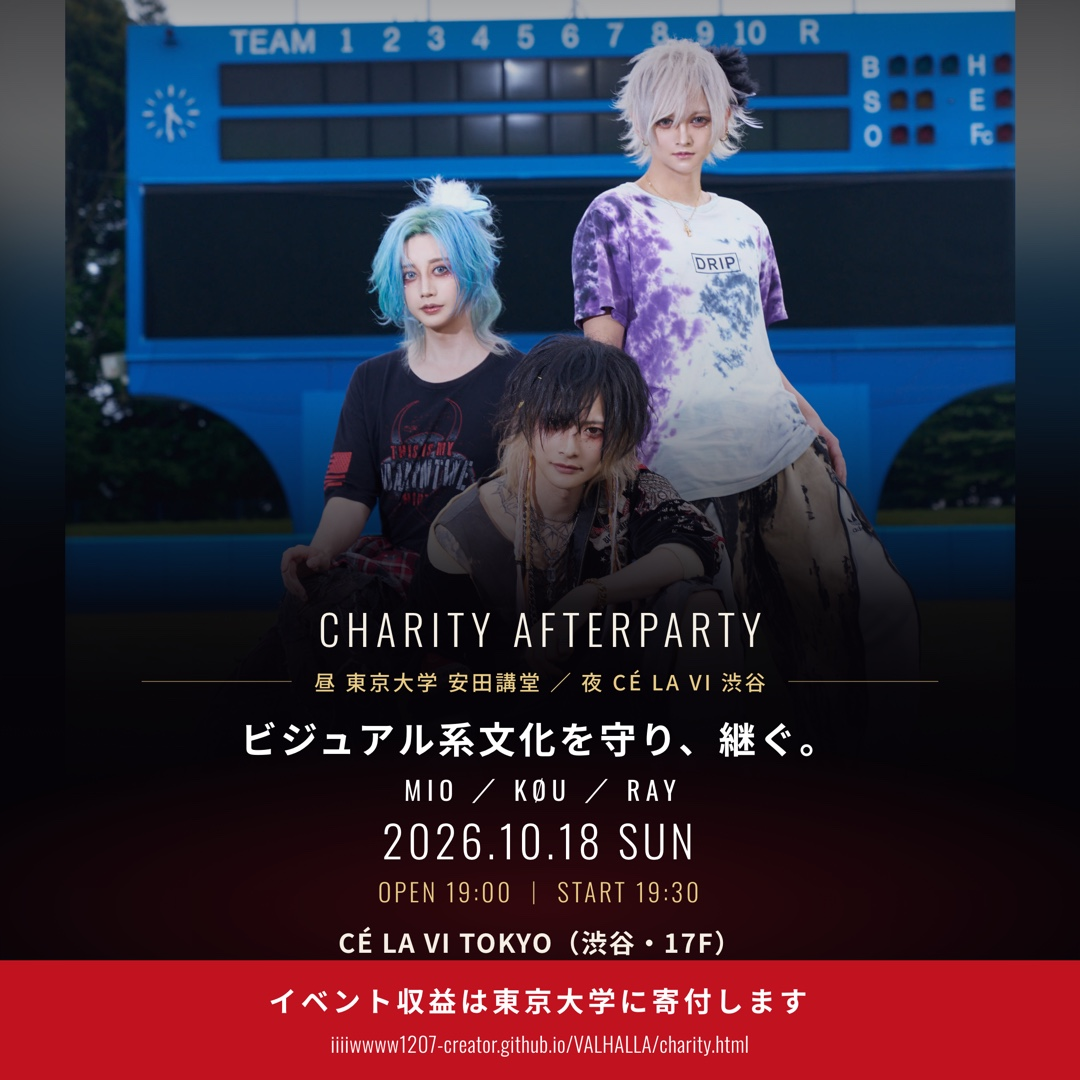
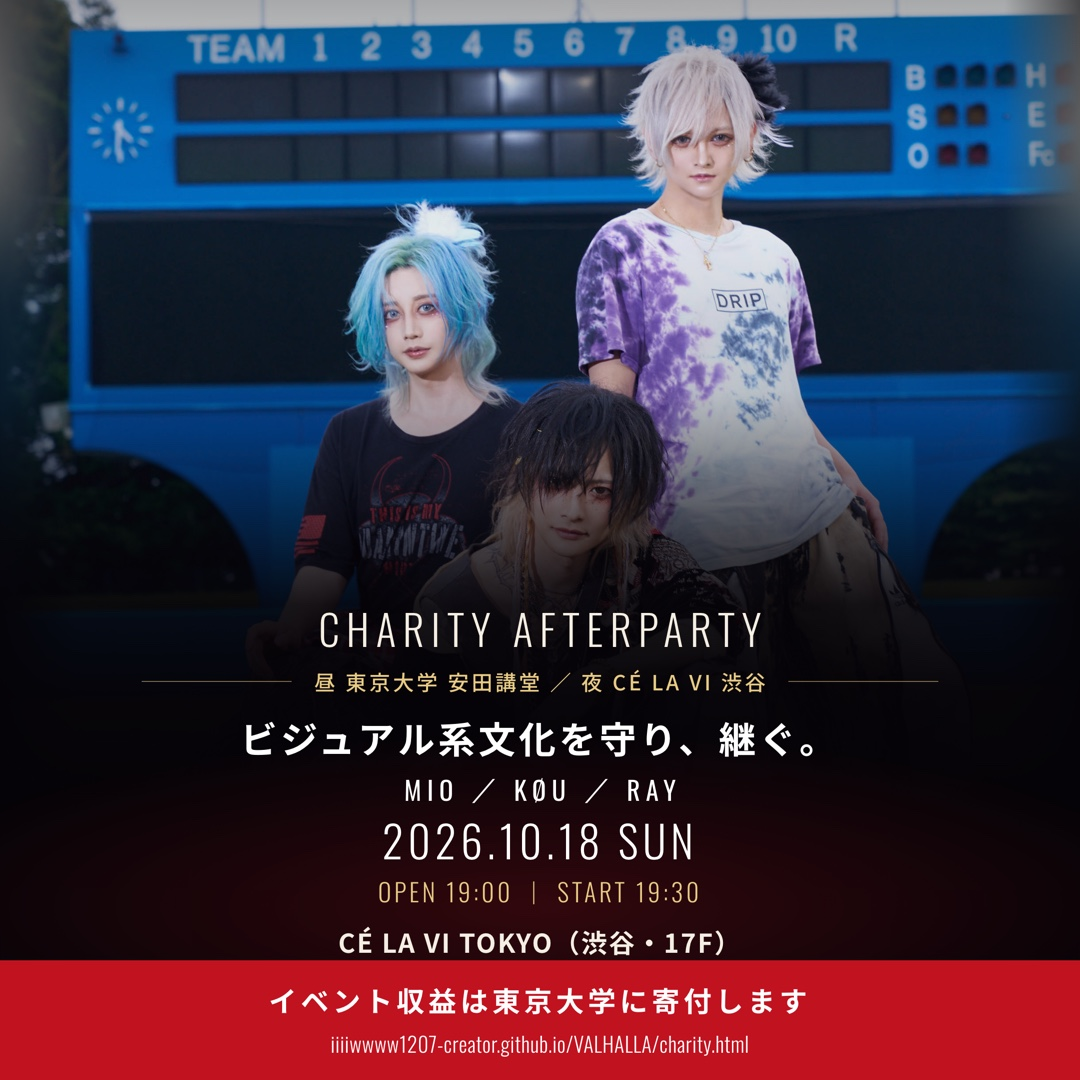
SNS1枚目：ストーリー版の見え方に3サイズを統一
kazuma「2個目がいい感じ」＝ストーリー版（1080x1920）の扱いを基準に採用。
ストーリー版は写真を幅100%で端まで効かせていて、ぼかしの帯が出ない。

- feed45 / square の .bgf を 88%幅 → 100%幅 に変更（-452px）
- ぼかし面（.bg）は残すが、幅100%の写真がほぼ覆うため
  端のわずかなフェードを受ける役だけになる

3サイズとも「写真が端まで効く／スコアボード上端スレスレ／
RAYの頭が切れない／KØUの顔が空く」を満たしていることを確認済み。

Changed region(s): [[0.0, 0.0, 1.0, 0.55]]

diff --git a/flyer-sns.html b/flyer-sns.html
@@ -62,8 +62,8 @@
     mask-image:linear-gradient(90deg,transparent 0,#000 7%,#000 93%,transparent 100%)}
   .board.feed45 .bgf,.board.square .bgf,.board.story .bgf{
       background-image:url('assets/charity/group_field.jpg')}
-  .board.feed45 .bgf{background-size:88% auto;background-position:center -399px}
-  .board.square .bgf{background-size:88% auto;background-position:center -399px}
+  .board.feed45 .bgf{background-size:100% auto;background-position:center -452px}
+  .board.square .bgf{background-size:100% auto;background-position:center -452px}
   .board.story  .bgf{background-size:100% auto;background-position:center -454px}
   .board.feed45 .veil,.board.square .veil,.board.story .veil{
       background:linear-gradient(180deg,

diff --git a/docs/celavi-afterparty.md b/docs/celavi-afterparty.md
@@ -100,7 +100,9 @@
         さらに引く場合、写真(2:3)は 4:5 / 1:1 の枠より縦長なので左右に隙間が出る。
         → **同じ写真をぼかして全面に敷き（.bg）、その上に実寸写真（.bgf）を重ねて**隙間を埋める。
         .bgf は左右を7%フェードさせてぼかし面に溶かしている。
-        現在値: .bgf = feed45 88%幅/-399px ・ square 88%幅/-399px ・ story 100%幅/-454px
+        **ストーリー版（1080x1920）の見え方を基準にする**（kazuma 2026-08-27「2個目がいい感じ」）。
+        ＝写真を幅100%で端まで効かせ、ぼかしの帯を見せない。3サイズともこの扱いに統一。
+        現在値: .bgf = 3サイズとも 100%幅 ／ feed45・square -452px ／ story -454px
       - 2枚目＝席の中身と価格の理由。ここで初めて金額を出す
       - 2枚目の背景は安田講堂の**内観を「引き」で全景**（寄せると何の建物か分からなくなるため）
       - ※ A4版は単票で完結させる必要があるので、A4には金額を残している
